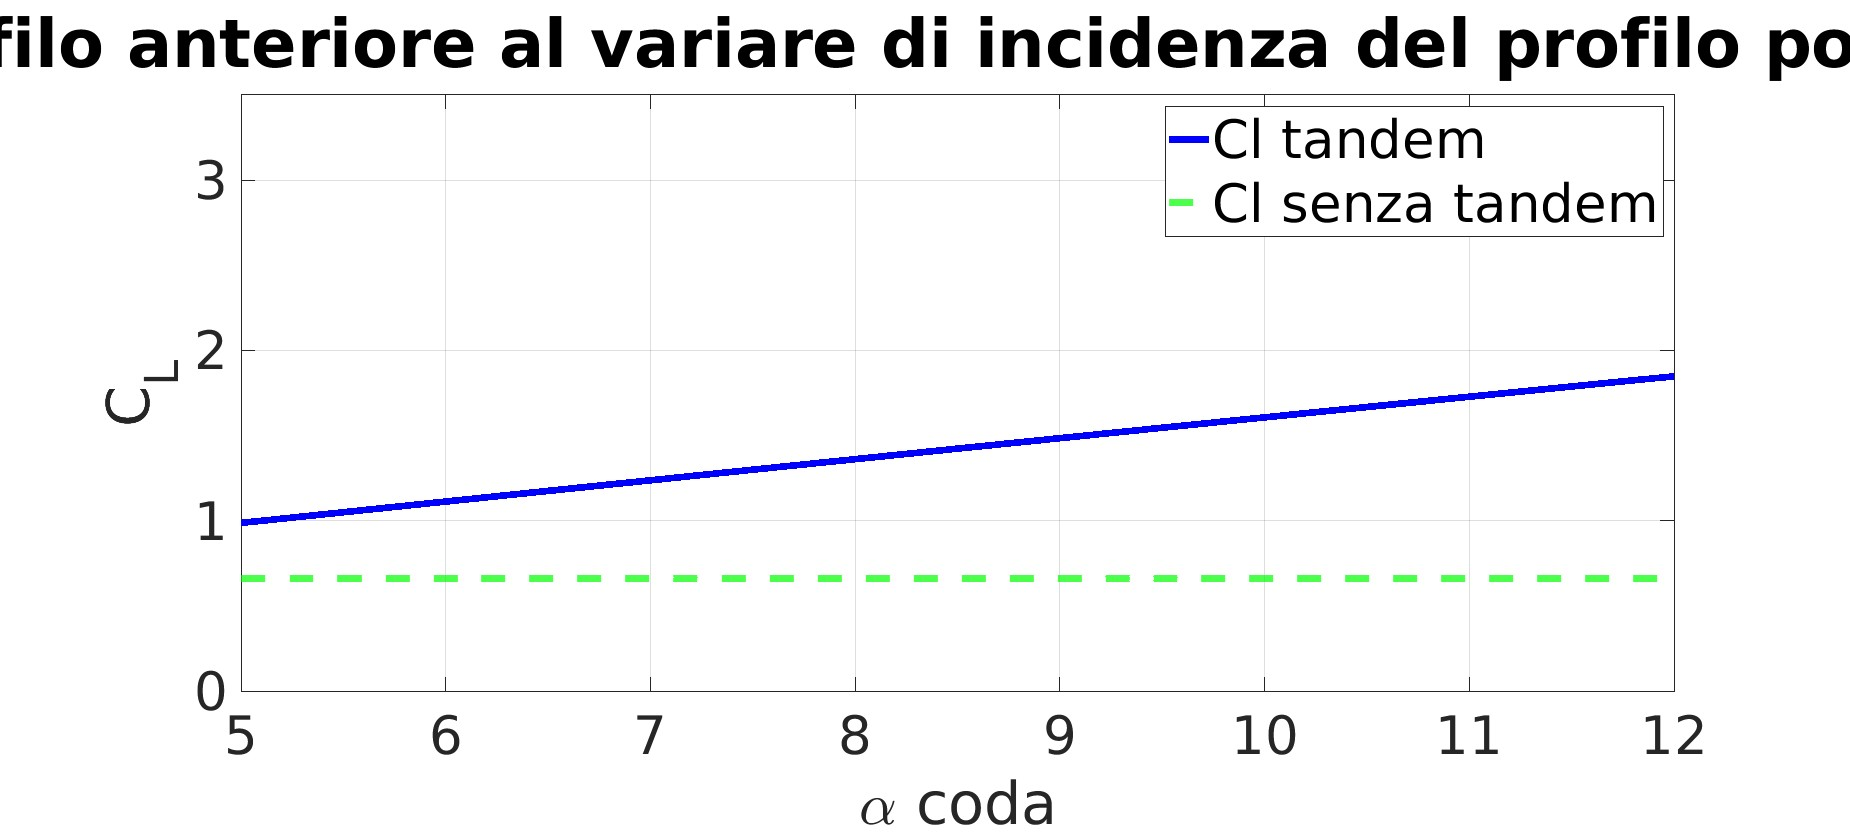
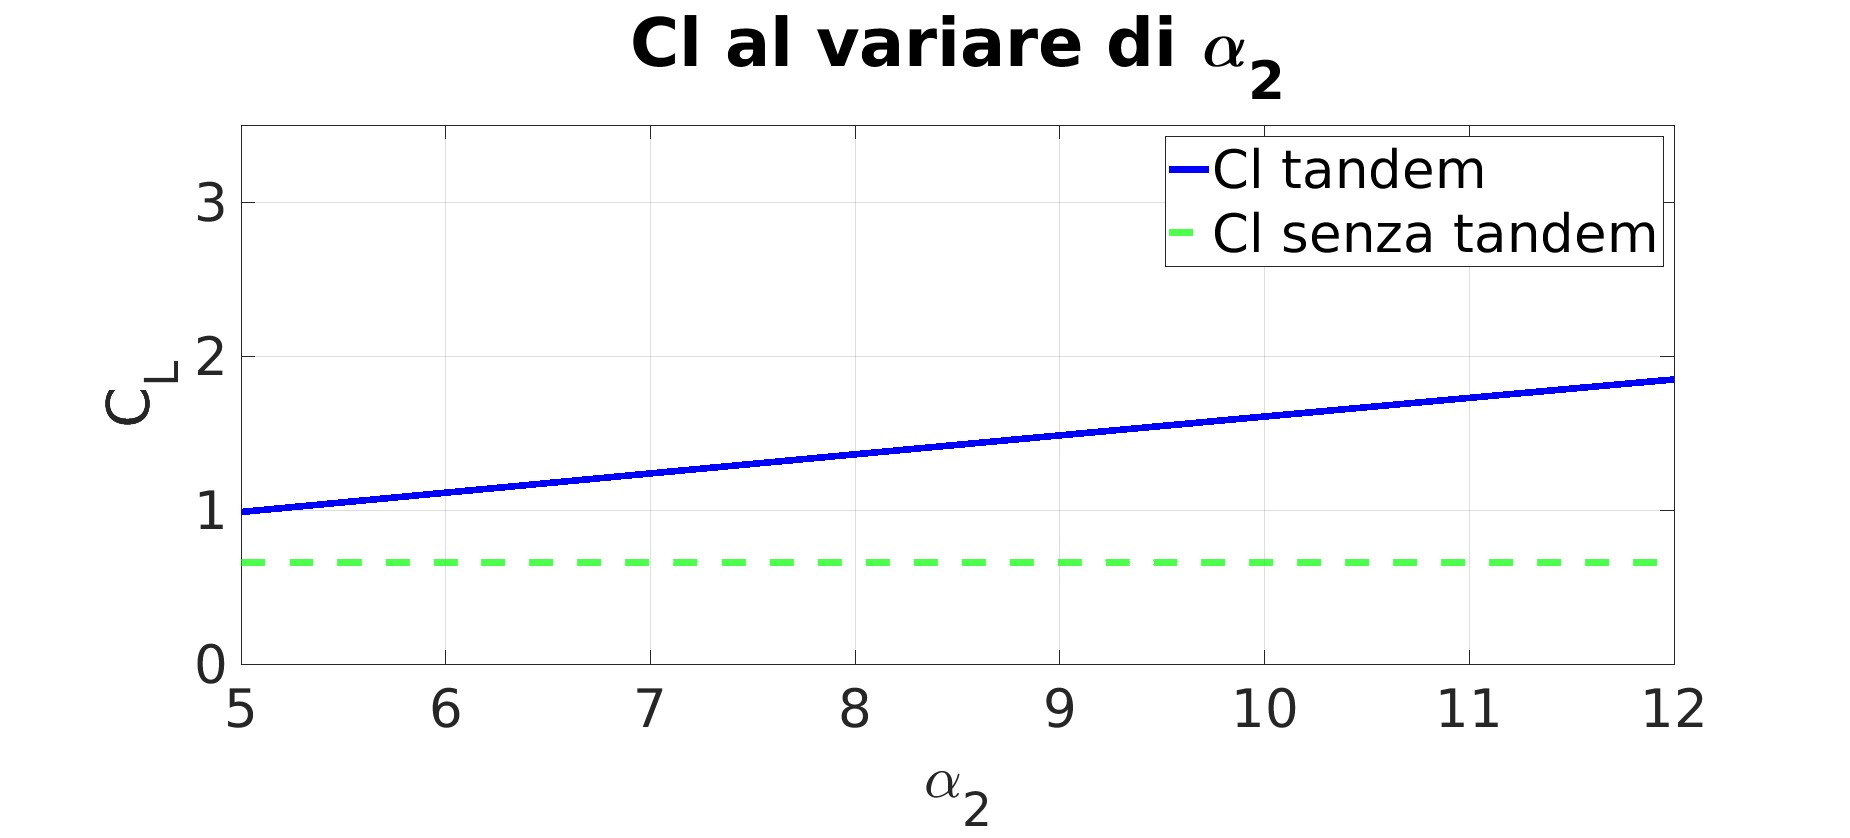
WI

diff --git a/Grafico tandem Hess Smith/Grafico_tandem_HessSmith.m b/Grafico tandem Hess Smith/Grafico_tandem_HessSmith.m
@@ -394,12 +394,12 @@ hold on
 yline(0.6602,'LineWidth',5,'Color','g','LineStyle','--')
 grid on
 legend('Cl tandem','Cl senza tandem','FontSize',40)
-xlabel('\alpha coda','FontSize',40)
+xlabel('\alpha_2','FontSize',40)
 ylabel('C_L','FontSize',40)
 xlim([5 12])
 ylim([0 3.5])
 ax=gca;
 ax.FontSize=40;
-title('Cl profilo anteriore al variare di incidenza del profilo posteriore','FontSize',50)
+title('Cl al variare di \alpha_2', 'FontSize',50)
 
 

diff --git a/Prova viscosa profilo singolo/provaviscosaNACA0024.m b/Prova viscosa profilo singolo/provaviscosaNACA0024.m
@@ -15,7 +15,7 @@ hold on
 plot(alpha,Cl(11)/alpha(11).*alpha,'LineWidth',5,'LineStyle','--','Color','r')
 grid on
 legend('Simulazione viscosa','Modello lineare','FontSize',40)
-xlabel('alpha','FontSize',40)
+xlabel('\alpha','FontSize',40)
 ylabel('C_L','FontSize',40)
 ax=gca;
 ax.FontSize=40;
